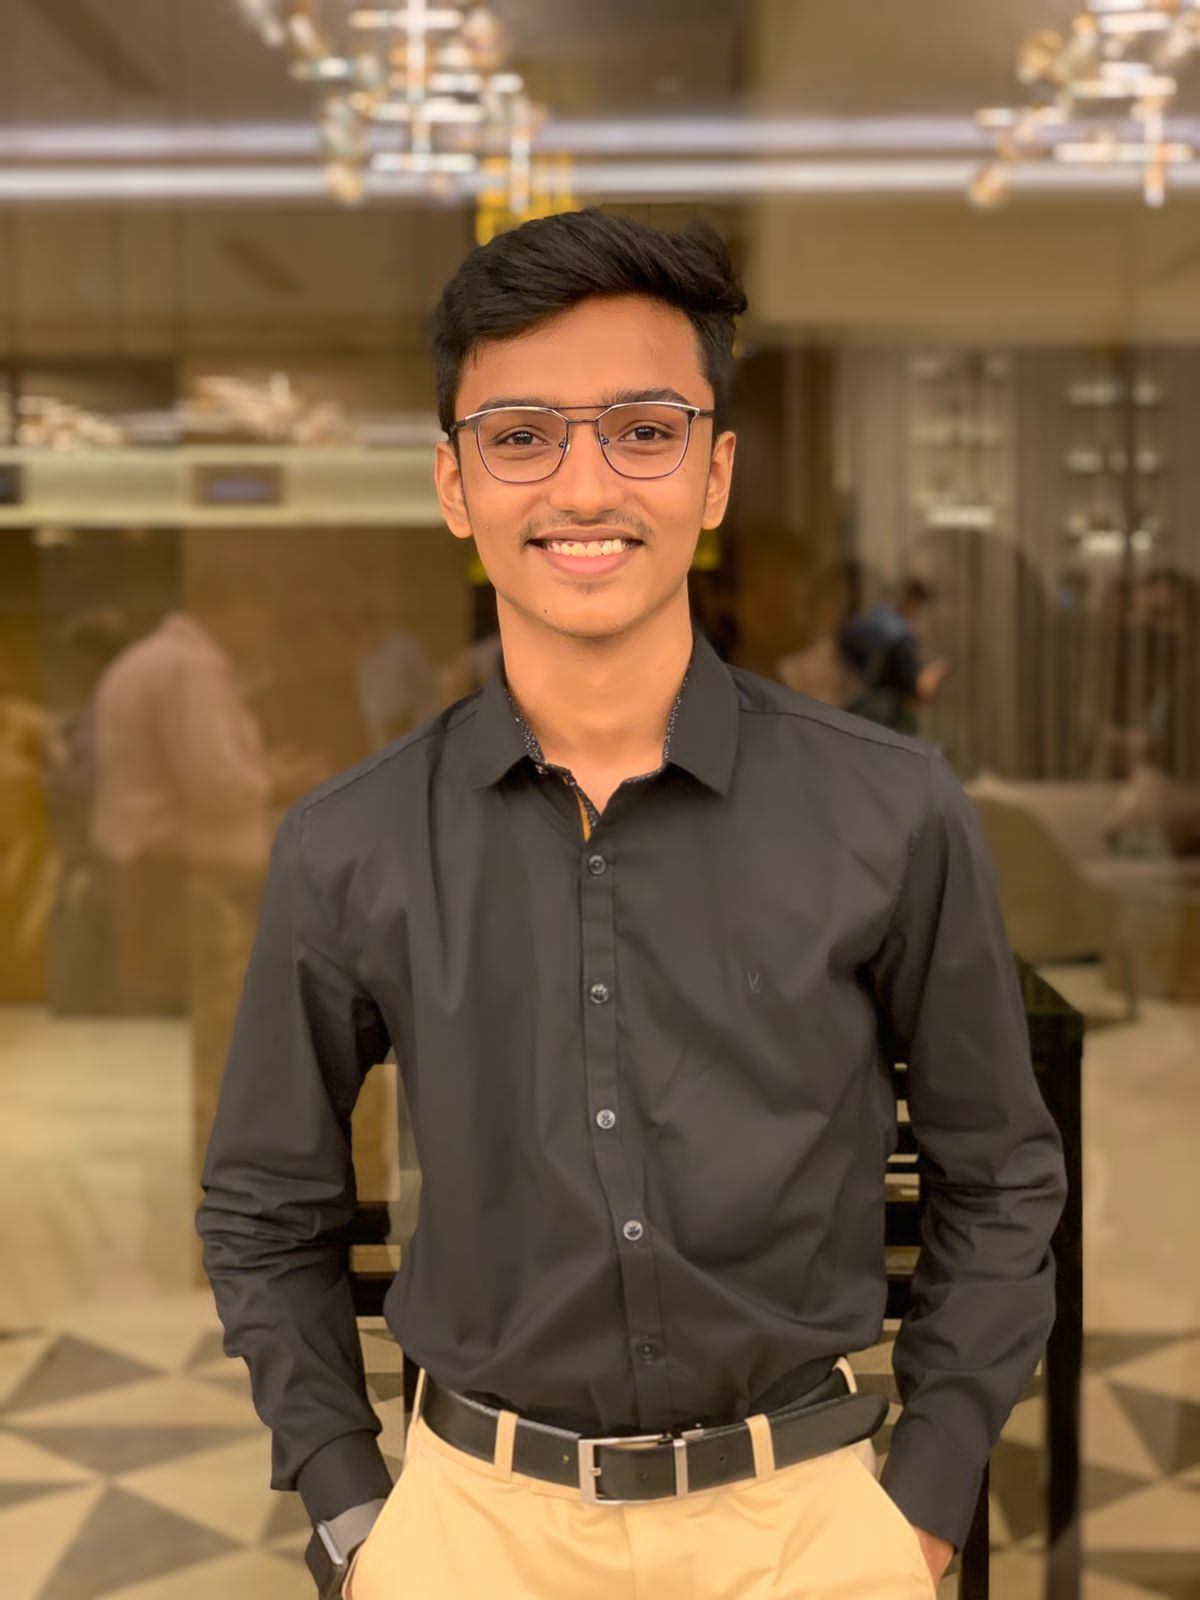
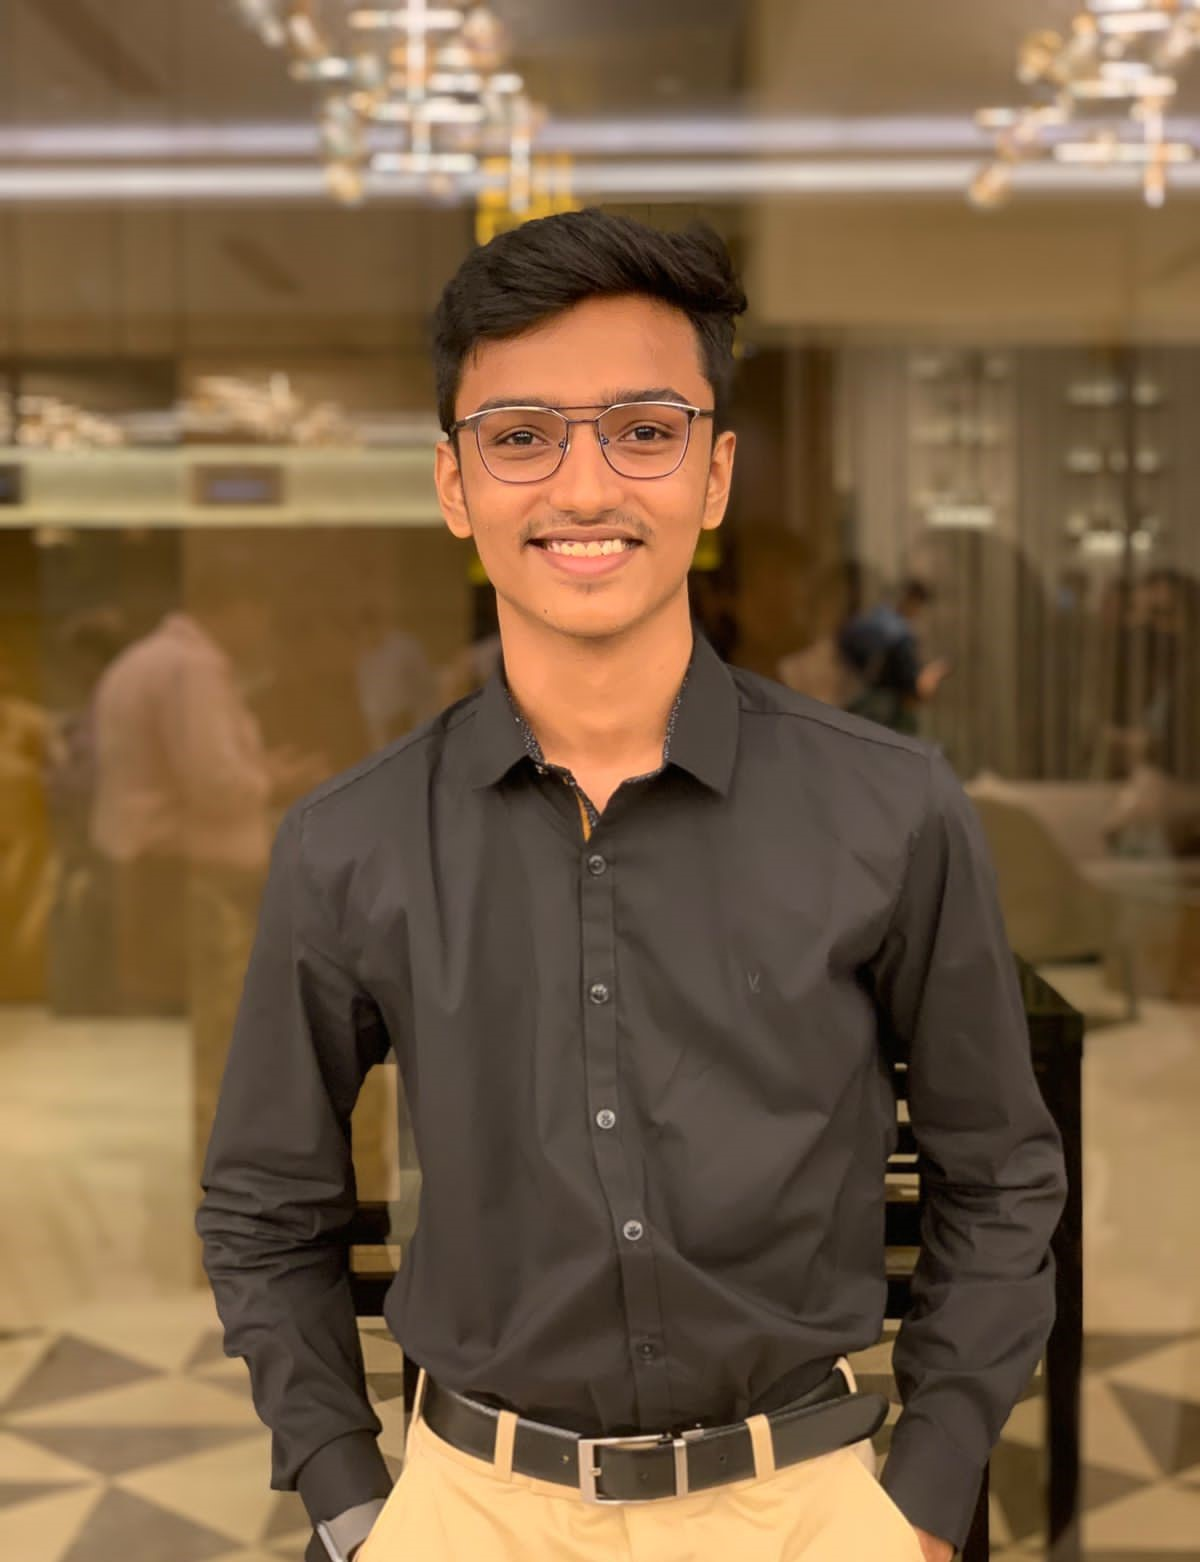
photo resize update

diff --git a/src/UI/Member.js b/src/UI/Member.js
@@ -4,7 +4,7 @@ function Member(props) {
     return(
         <div class="group relative">
             <div class="w-full min-h-80 bg-gray-200 aspect-w-1 aspect-h-1 rounded-md overflow-hidden group-hover:opacity-75 lg:h-80 lg:aspect-none">
-              <img src={props.src} alt={props.alt} class="w-full h-full object-center object-cover lg:w-full lg:h-full" />
+              <img src={props.src} alt={props.alt} style={{ width: "125%", height: "125%" }} class="w-full h-full object-center object-cover lg:w-full lg:h-full" />
             </div>
             <div class="mt-4 flex justify-between">
               <div>
